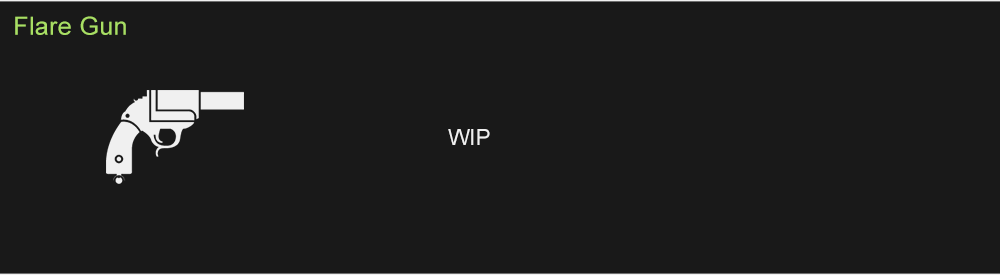
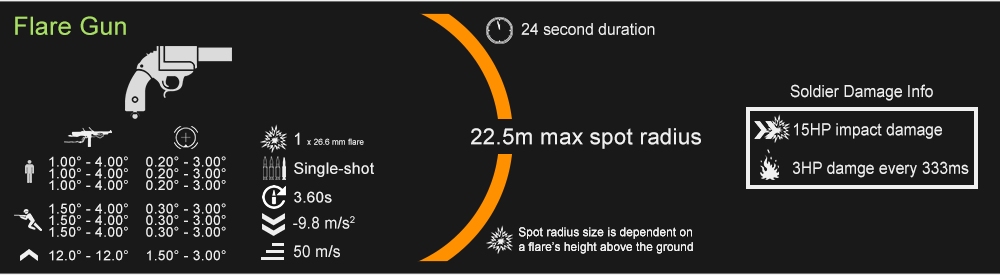
Added M3, T2A, and T97MG images, updated Flare Gun and FF images

diff --git a/webpage/pages/bfv/bfv.js b/webpage/pages/bfv/bfv.js
@@ -5,7 +5,7 @@ const BFV_DATA = './pages/bfv/data/bfv_J.json'
 // In format "[day] [month three letters] [year four digits]"
 // e.g. 2nd Jan 2019
 const BFV_DATA_DATE = '16th Jan 2020 (BFV_J)'
-const BFV_PAGE_DATE = '2nd Jan 2020'
+const BFV_PAGE_DATE = '21st Jan 2020'
 
 // Total version string displayed under title
 const BFV_VERSION_STRING = `Latest updates<br>Page: ${BFV_PAGE_DATE}<br>Data: ${BFV_DATA_DATE}`
